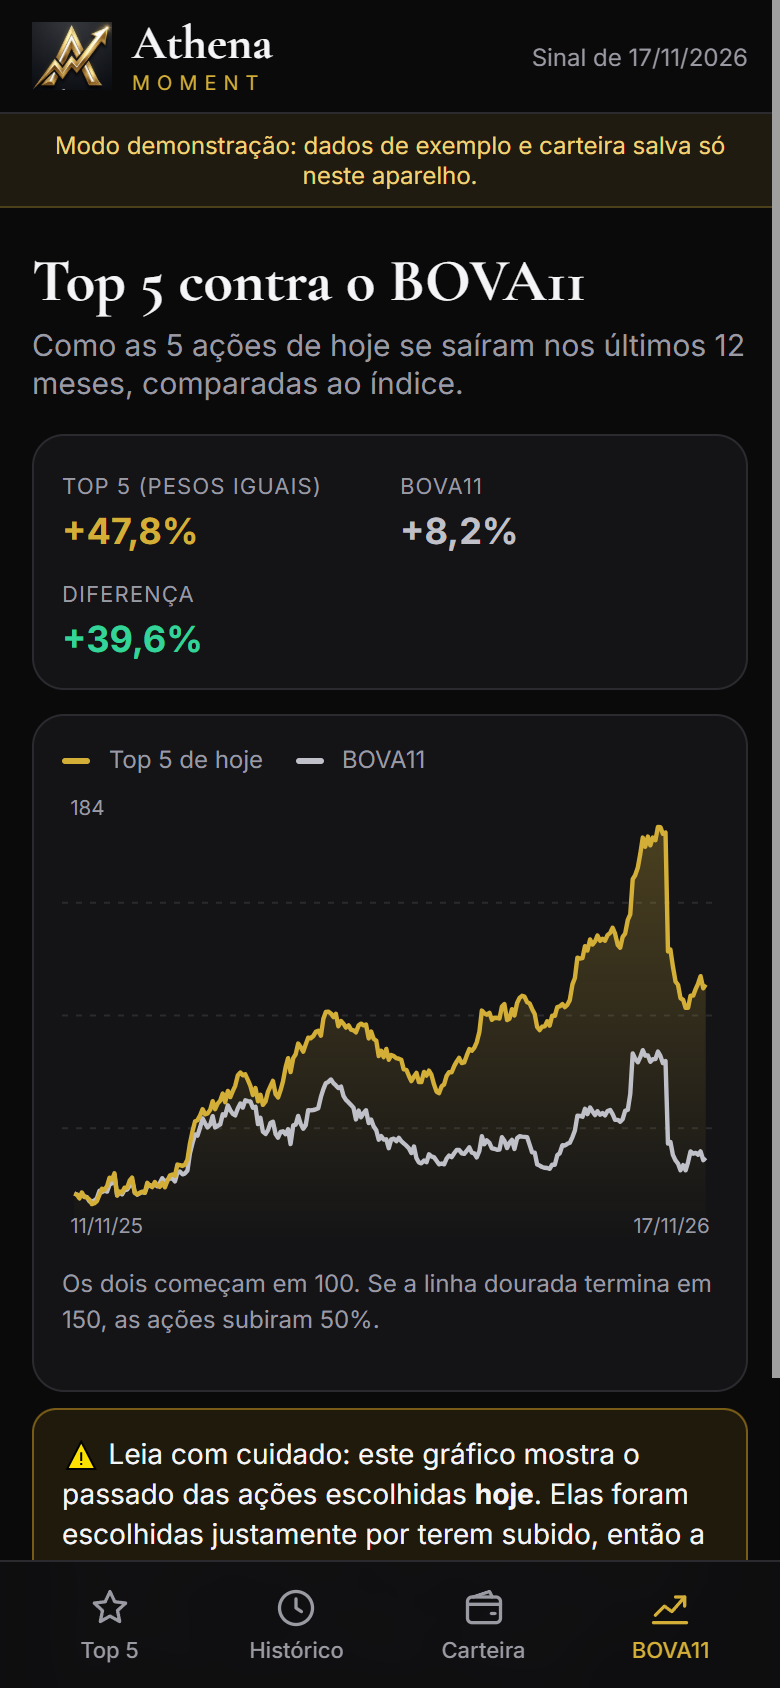
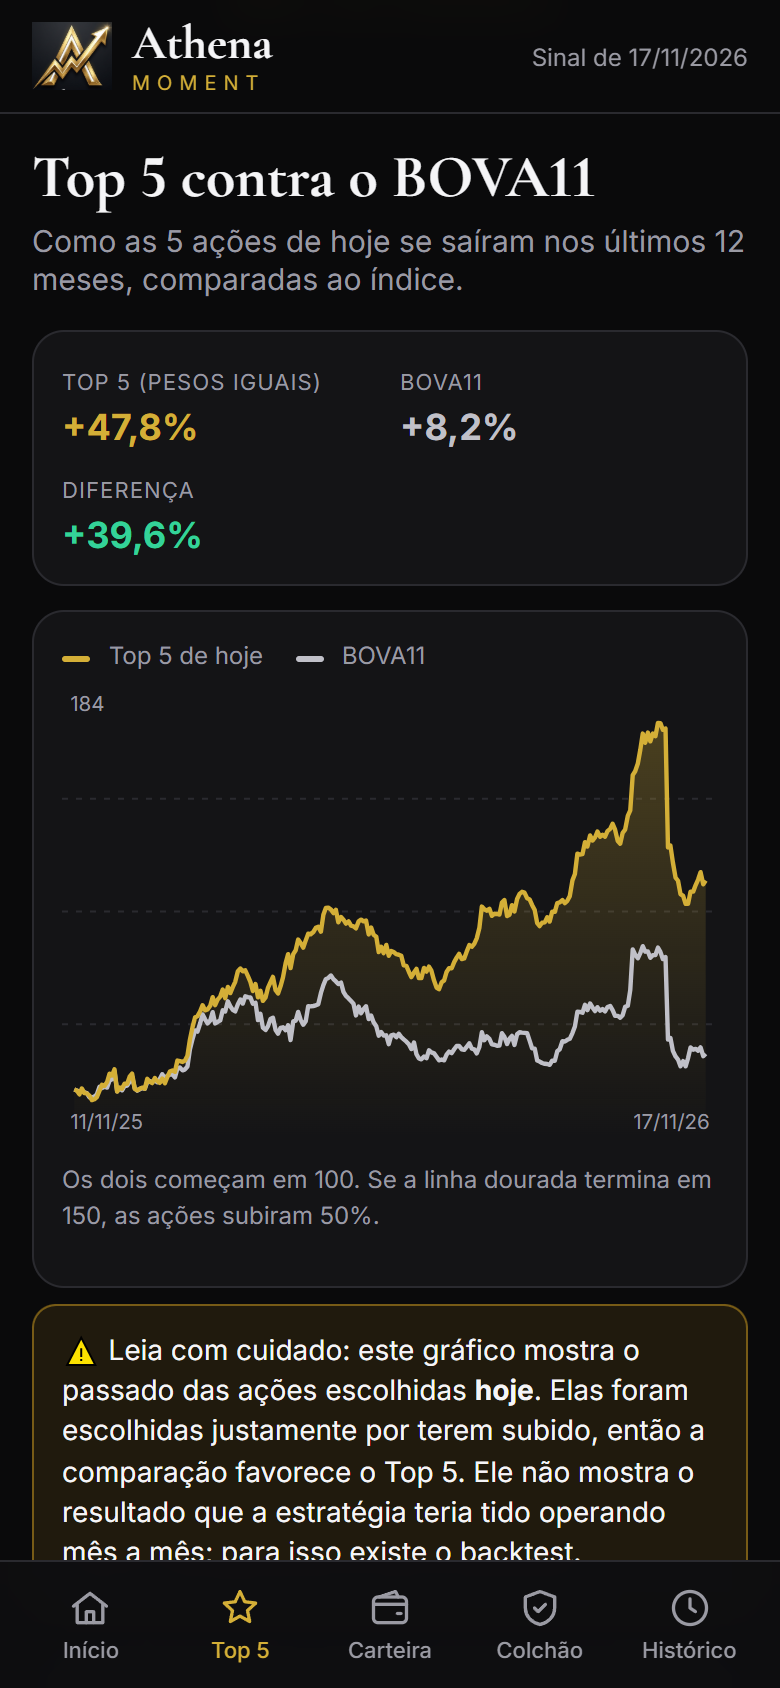
Prints novos da versao atual e imagens para divulgacao
- docs: prints do Inicio (simulador), Top 5, Colchao CDI e comparativo,
  ja com o stop movel de 10% e o menu novo; saem os prints antigos da
  carteira de exemplo e do historico
- docs/linkedin: card com o resultado do backtest e prints para o post

diff --git a/README.md b/README.md
@@ -6,9 +6,9 @@ Todo dia útil, depois do fechamento, um robô analisa 75 ações do Ibovespa, e
 **📱 Abrir o app:** [giovanssouzagt-lang.github.io/athena-moment](https://giovanssouzagt-lang.github.io/athena-moment/) (instalável no celular como aplicativo)
 
 <p align="center">
-  <img src="docs/top5.png" alt="Top 5 do dia com preço, stop loss, força de 12 meses e gráfico de 6 meses" width="24%">
-  <img src="docs/carteira.png" alt="Carteira com lucro, prejuízo e alertas explicativos" width="24%">
-  <img src="docs/historico.png" alt="Detalhes de um dia do histórico de sinais" width="24%">
+  <img src="docs/inicio.png" alt="Simulador: quanto investir hoje, com quantas ações comprar de cada uma e o stop de cada posição" width="24%">
+  <img src="docs/top5.png" alt="Top 5 do dia com preço, stop móvel, força de 12 meses e gráfico de 6 meses" width="24%">
+  <img src="docs/colchao.png" alt="Colchão CDI: 60% em ações e 40% no CDI" width="24%">
   <img src="docs/comparativo.png" alt="Comparativo do Top 5 contra o BOVA11 em 12 meses" width="24%">
 </p>
 
